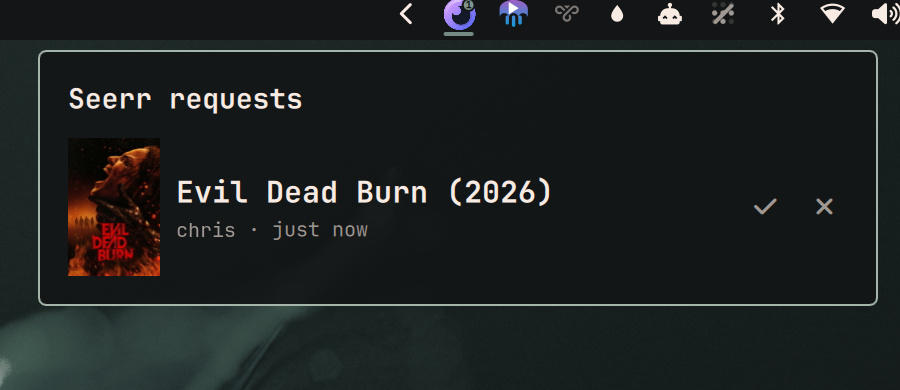
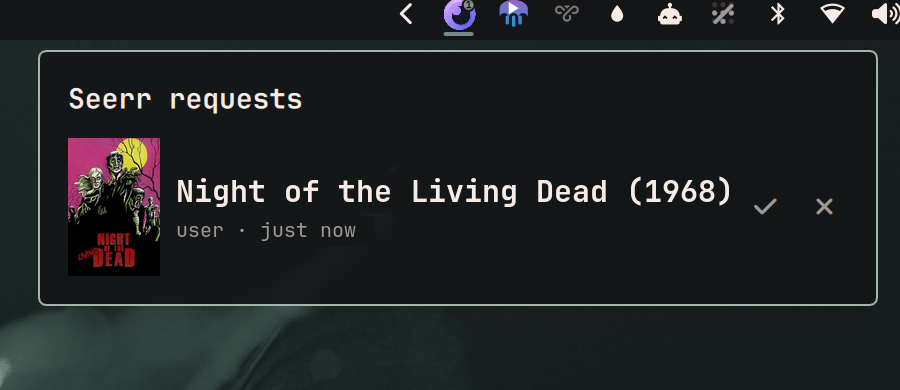
Use a public-domain film in the preview image
The card previously showed a current studio release, which meant the
marketplace's 'I own or have permission to submit the preview assets'
checkbox rested on a fair-use argument. Night of the Living Dead (1968)
is public domain, so the claim needs no argument at all.

Also drops the last traces of a real request queue from the docs.

Changed region(s): [[0.0622, 0.3385, 0.8089, 0.7077]]

diff --git a/DESIGN.md b/DESIGN.md
@@ -61,8 +61,8 @@ resolution — runs only when `pending > 0` or the popup is open.
 A Jellyseerr request object carries `media.tmdbId` but **no title**:
 
 ```json
-{"id":140,"status":1,"type":"movie","createdAt":"2026-08-09T13:38:48.000Z",
- "media":{"tmdbId":329556,"mediaType":"movie"},"requestedBy":{"displayName":"chris"}}
+{"id":42,"status":1,"type":"movie","createdAt":"2026-08-09T13:38:48.000Z",
+ "media":{"tmdbId":10331,"mediaType":"movie"},"requestedBy":{"displayName":"user"}}
 ```
 
 Titles and posters need a follow-up `GET /api/v1/movie/{tmdbId}` or
@@ -80,7 +80,7 @@ day is resolved once rather than 1,440 times. Cache entries are immutable
 
 New pending request IDs fire one `notify-send`:
 
-> **Seerr request** — chris requested *Landmine Goes Click* (2015)
+> **Seerr request** — user requested *Night of the Living Dead* (1968)
 
 Seen IDs persist to `~/.local/state/omarchy-seerr/seen.json`. Without that, every
 shell restart re-toasts every pending request — the behavior that gets a plugin

diff --git a/README.md b/README.md
@@ -120,3 +120,10 @@ how the two-tier polling works, and where the N+1 on title lookups comes from.
 (Apache 2.0). The `seerr` orb was chosen over the `jellyseerr` jellyfish because
 the jellyfish is near-identical to the Jellyfin widget sitting beside it in the
 bar, and two purple jellyfish next to each other tell you nothing apart.
+
+## Preview image
+
+`preview.png` shows *Night of the Living Dead* (1968), which is in the public
+domain in the US — its original release prints omitted the copyright notice, so
+neither the film nor its poster art is under copyright. No studio artwork is
+reproduced anywhere in this repository.
